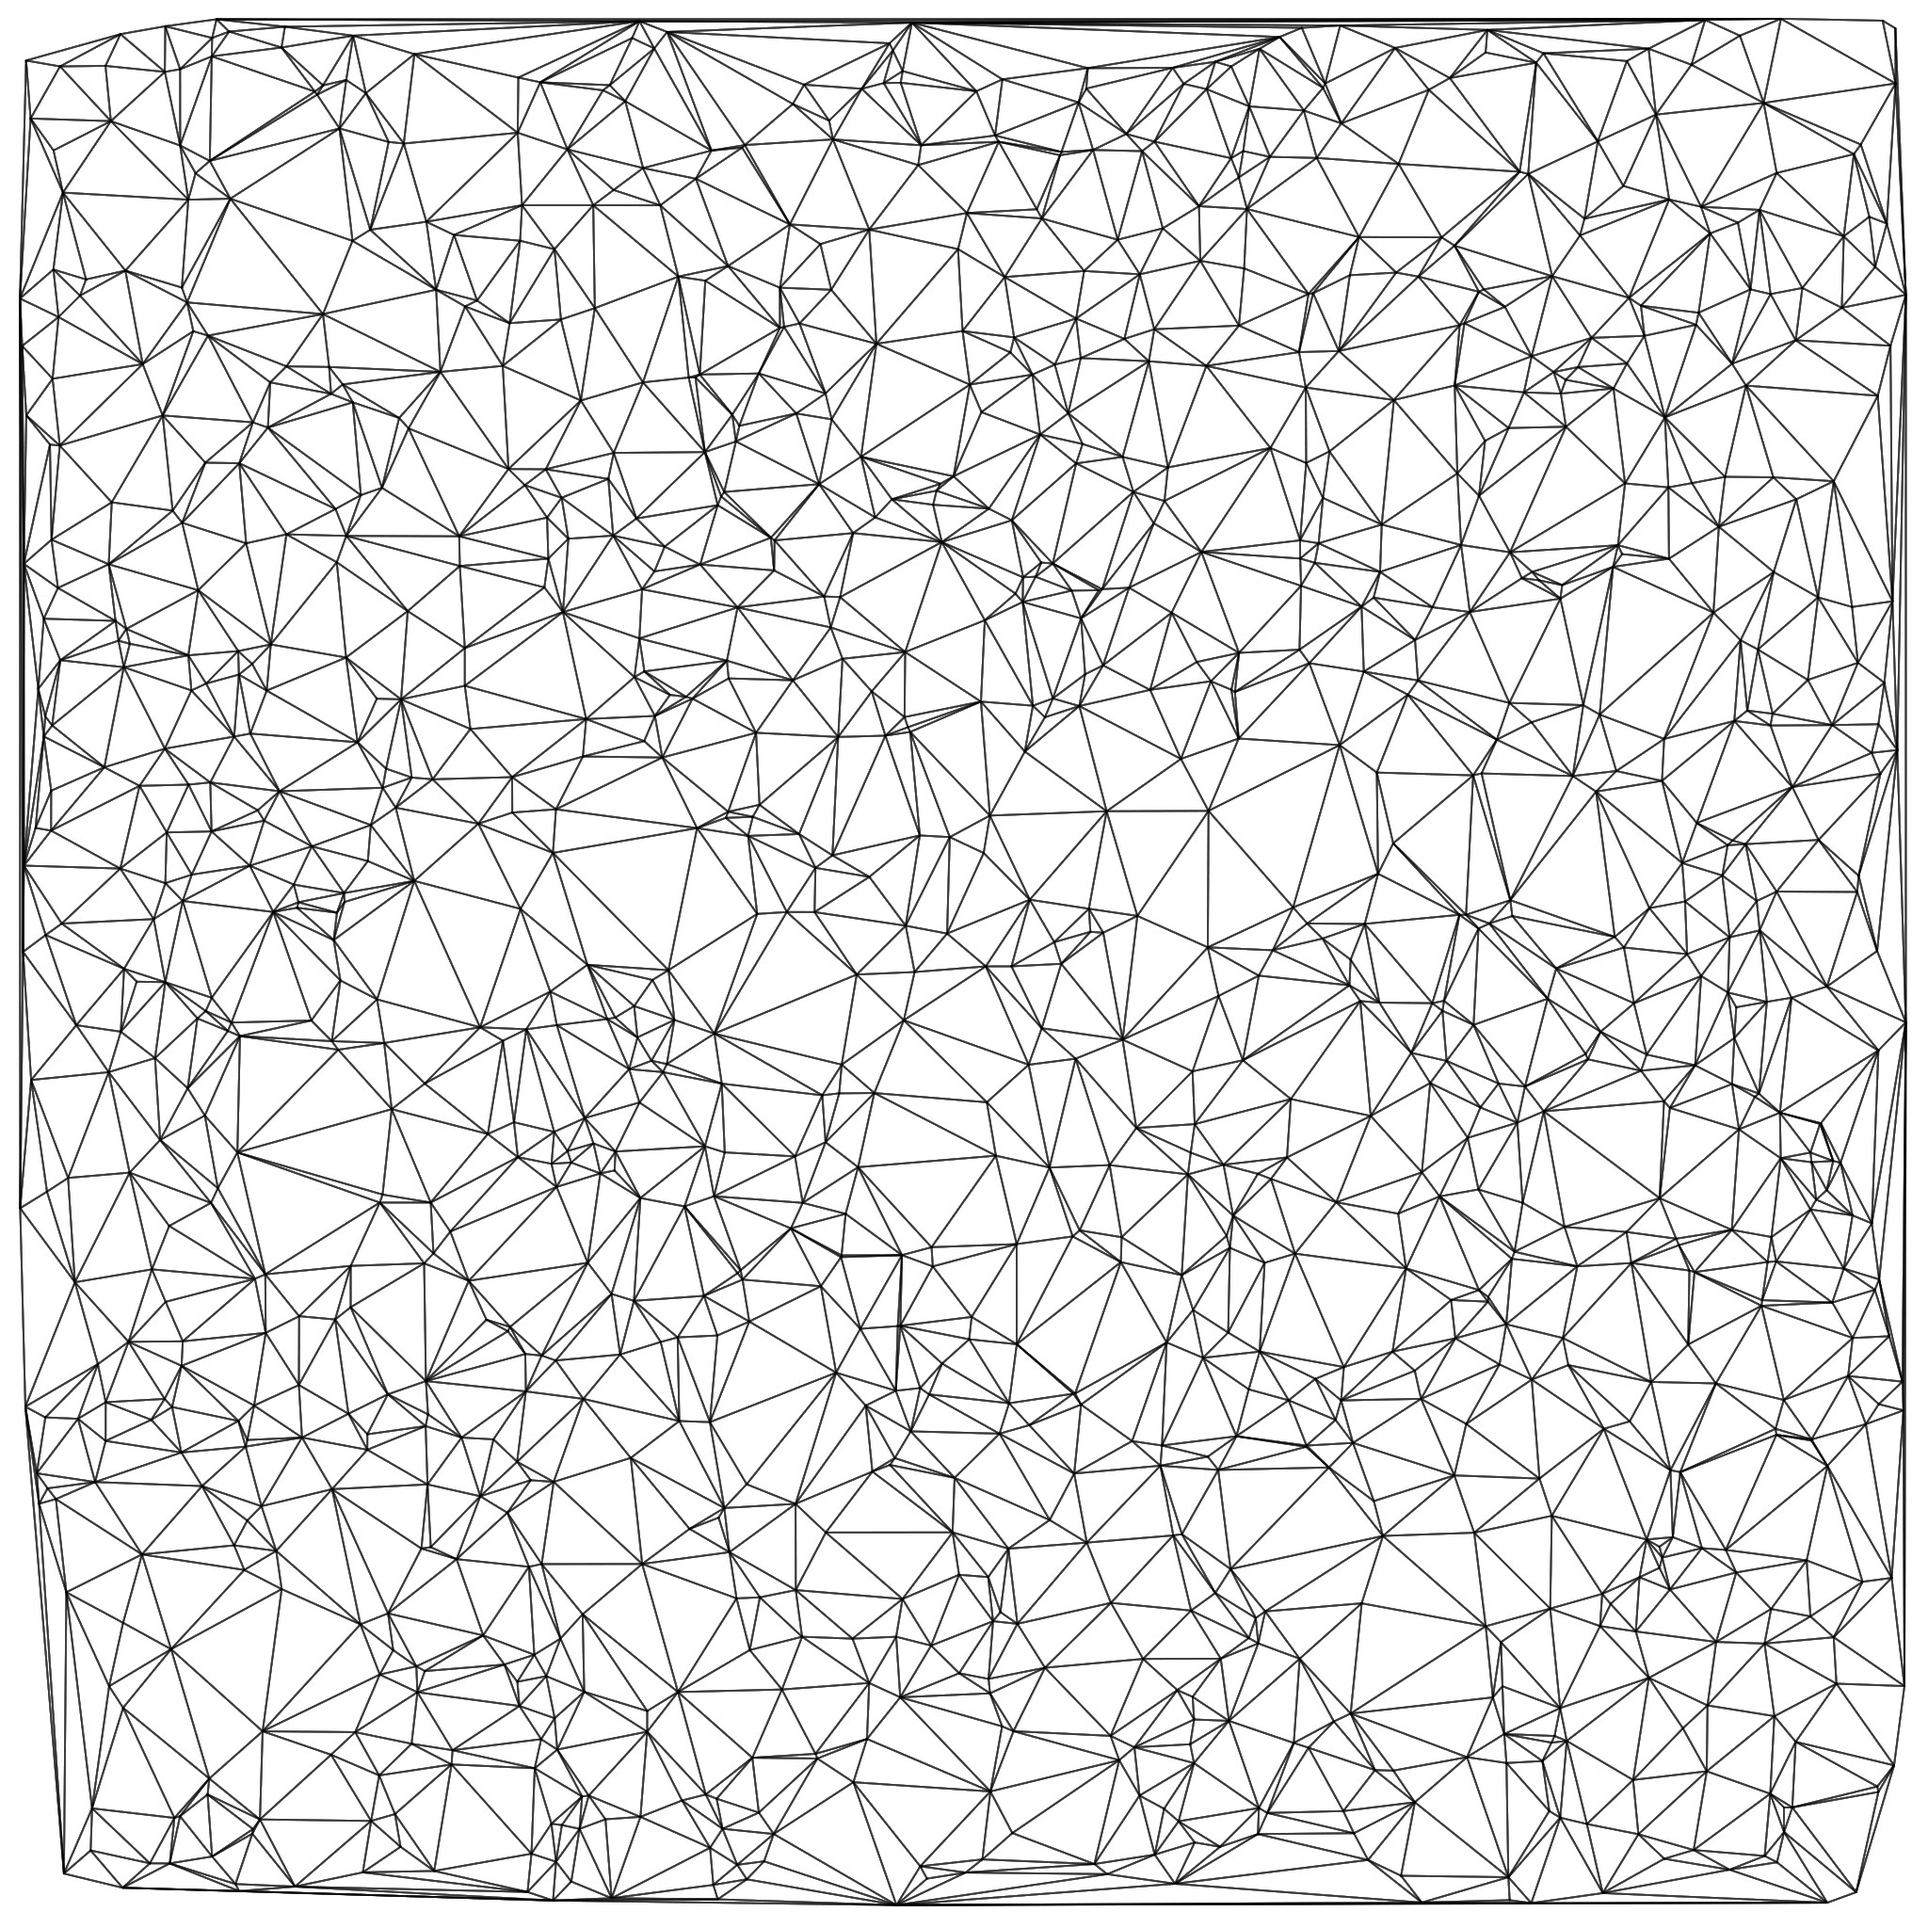
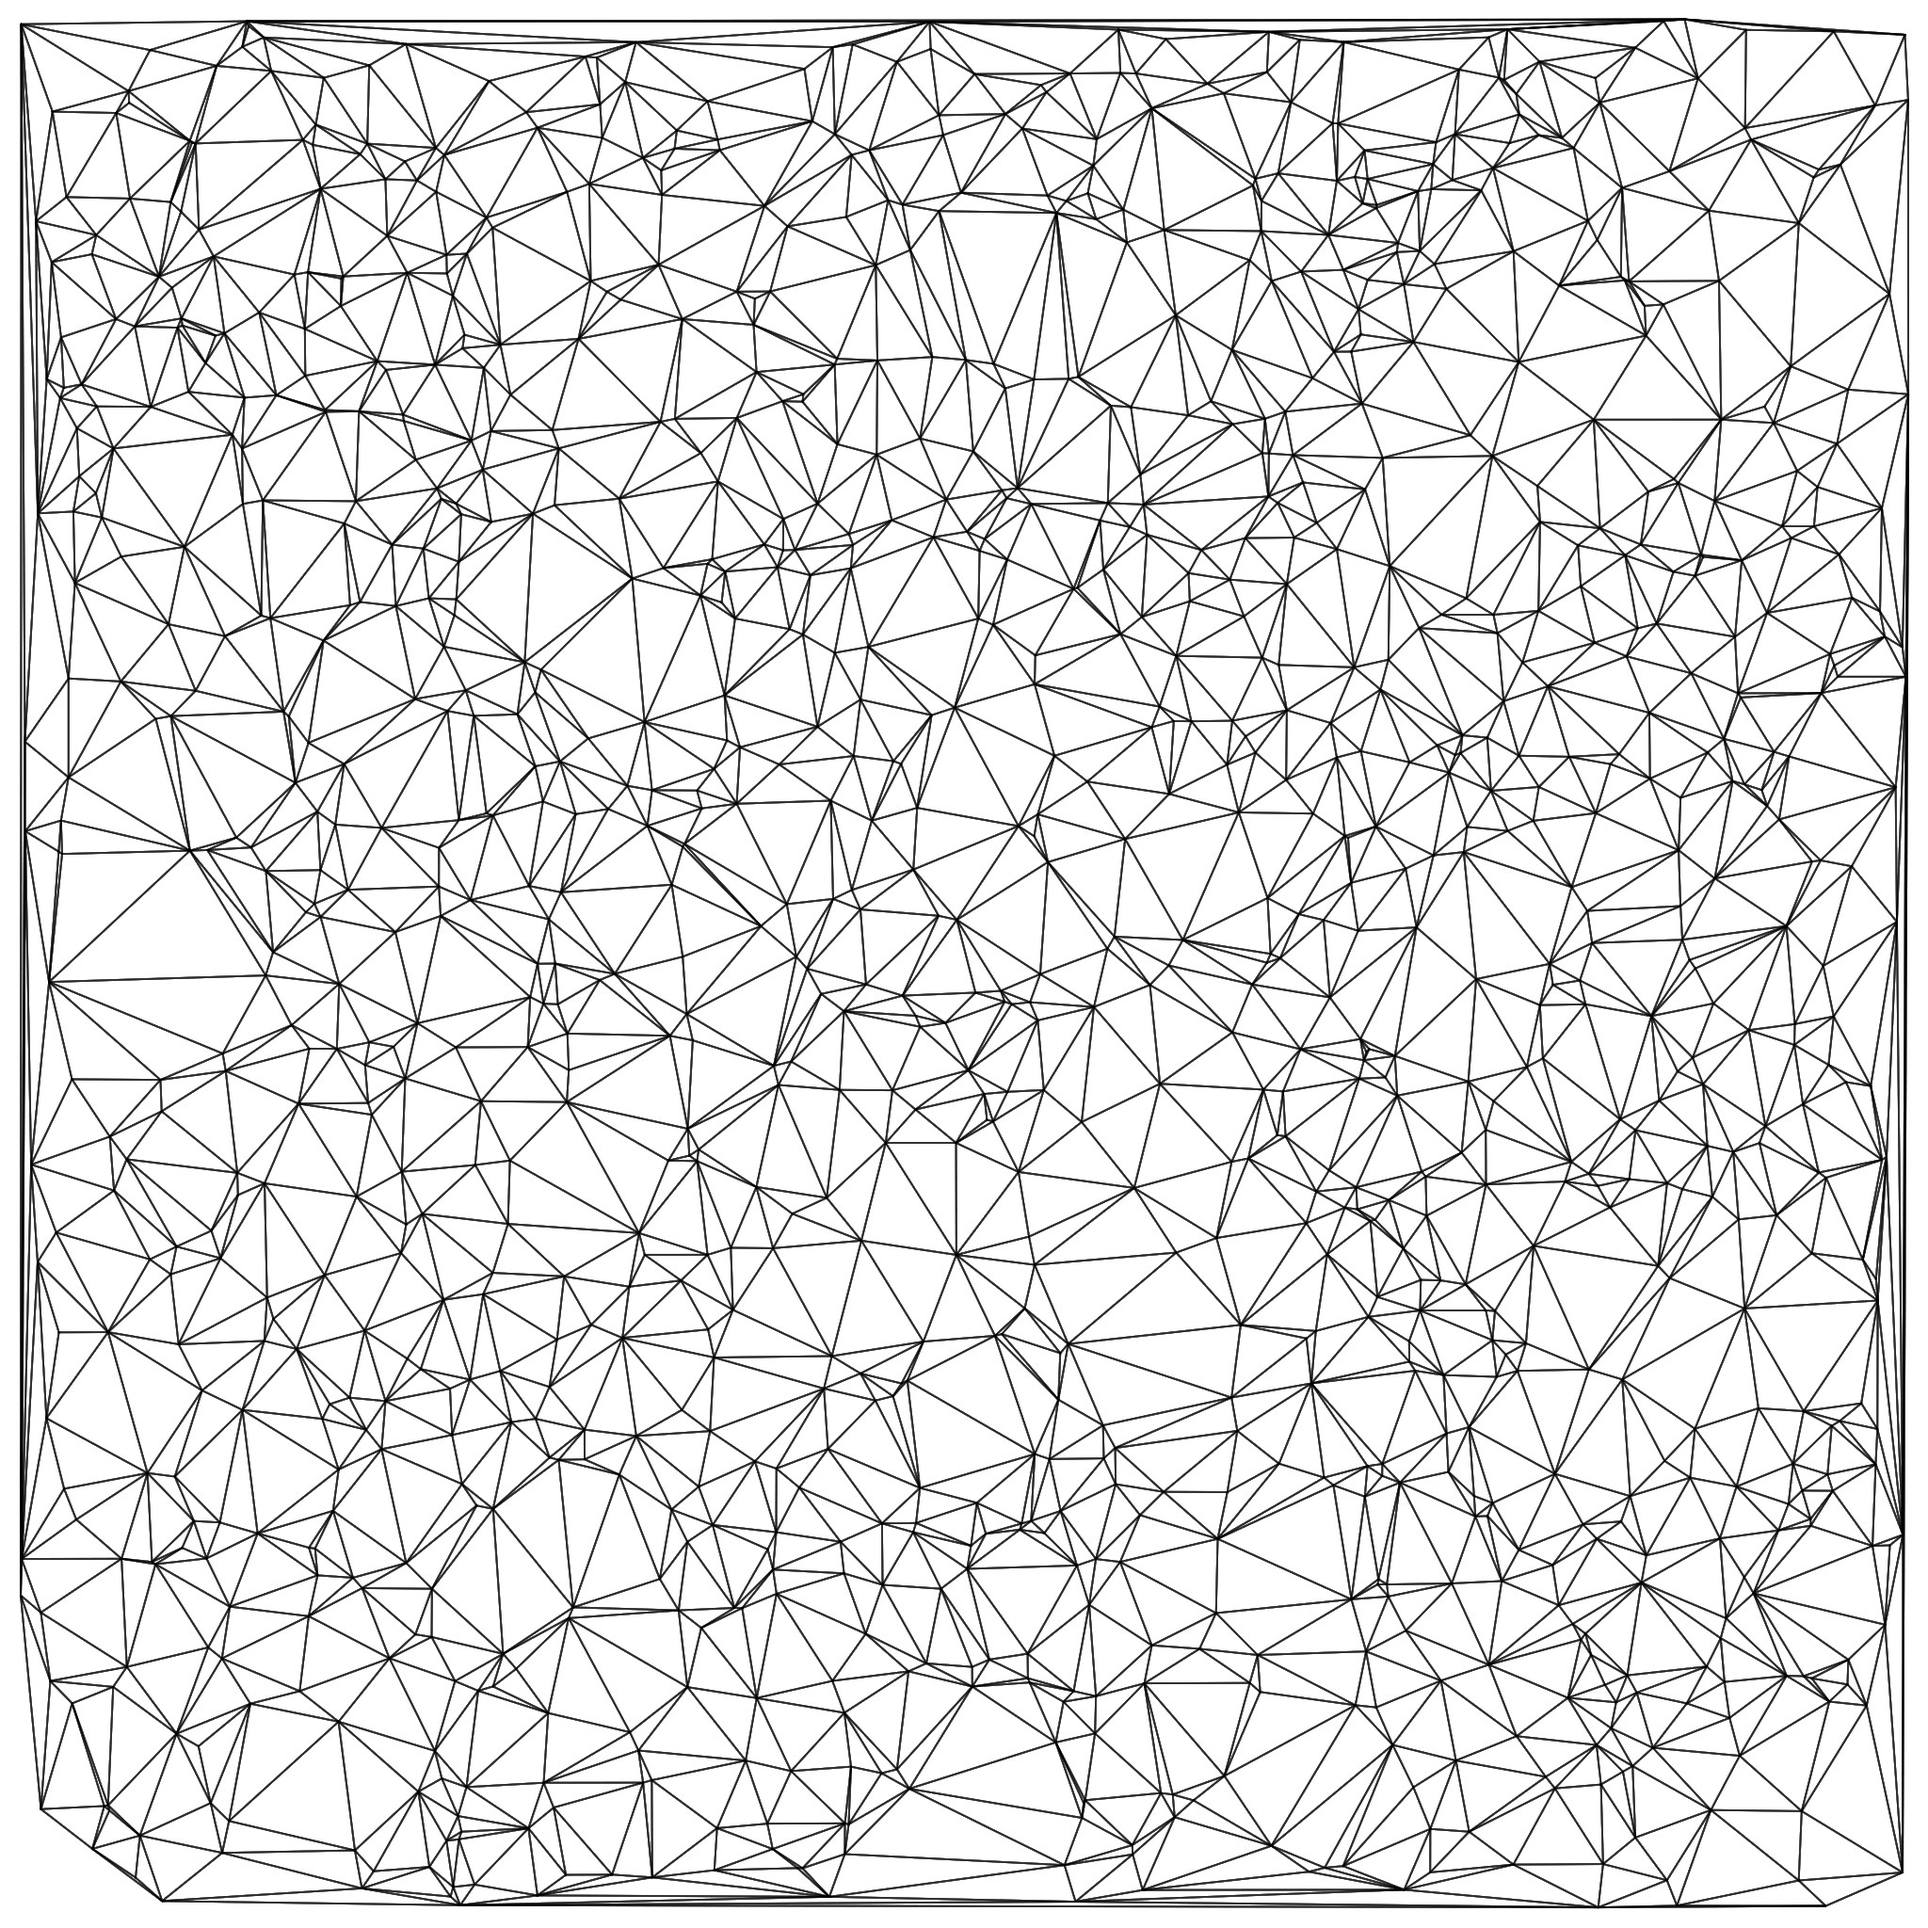
Changed qsort to quickselect

Changed region(s): [[0.0, 0.0, 1.0, 1.0]]

diff --git a/src/delaunay.c b/src/delaunay.c
@@ -43,10 +43,8 @@ static double dot_twovec(const double *restrict v1,
 #ifndef NO_INTRINSICS
 
 gnu_attribute(const)
-/// Crossing two 2D vectors can be likened to a dot product, where one vector 
-/// is reversed (shuffled) and its lower (upper bits!) are negated (the 
-/// blend with out_n). This returns a scalar, the magnitude of the normal 
-/// vector to the plane defined by @p v1 and @p v2
+/// Reverses @p v2, negates the lower 64 bits, then returns the dot of @p v1 
+/// and @p v2
 ///
 static double cross_twovec_xmm(const __m128d v1, const __m128d v2)
 {
@@ -217,7 +215,6 @@ static int collinear_center(const double *restrict rs[static 3])
         return dot_twovec(AB, AC) < 0;
     }
 }
-
 
 
 #define DIM_TOGGLE(dim) (!dim)
@@ -734,6 +731,8 @@ merge_accept_left:
     goto merge_find_candidates;
 }
 
+#if USE_QSORT
+
 gnu_attribute(nonnull, pure, hot)
 static int xcmp(const void *restrict v1, const void *restrict v2)
 {
@@ -750,6 +749,73 @@ static int ycmp(const void *restrict v1, const void *restrict v2)
     return (y1 < y2) - (y1 > y2);
 }
 
+static int (*const cmps[])(const void *, const void *) = {
+    xcmp,
+    ycmp
+};
+
+#else
+
+gnu_attribute(nonnull)
+static void qswap(const double **p1, const double **p2)
+{
+    const double *tmp = *p1;
+    *p1 = *p2;
+    *p2 = tmp;
+}
+
+gnu_attribute(nonnull)
+static double qpivot(const double **base, const double **end, int dim)
+{
+    const double **mid = base + (end - base) / 2;
+    end--;
+    if ((*mid)[dim] < (*base)[dim]) {
+        qswap(base, mid);
+    }
+    if ((*end)[dim] < (*mid)[dim]) {
+        qswap(mid, end);
+        if ((*mid)[dim] < (*base)[dim]) {
+            qswap(base, mid);
+        }
+    }
+    return (*mid)[dim];
+}
+
+gnu_attribute(nonnull)
+static size_t qpart(const double **base, const double **j, int dim)
+{
+    double p = qpivot(base, j, dim);
+    const double **i = base - 1;
+    while (1) {
+        do {
+            i++;
+        } while ((*i)[dim] < p);
+        do {
+            j--;
+        } while ((*j)[dim] > p);
+        if (i >= j) {
+            return i - base;
+        }
+        qswap(i, j);
+    }
+}
+
+gnu_attribute(nonnull)
+static void kpart(size_t N, const double *refs[static N], size_t k, int dim)
+{
+    if (N == 1) {
+        return;
+    }
+    size_t part = qpart(refs, refs + N, dim);
+    if (k < part) {
+        kpart(part, refs, k, dim);
+    } else {
+        kpart(N - part, refs + part, k - part, dim);
+    }
+}
+
+#endif //USE_QSORT
+
 gnu_attribute(nonnull)
 /// Serial version
 ///
@@ -758,10 +824,6 @@ static struct delaunay_triangle *build_2dtree_s(struct delaunay_triangle_pool *p
                                                 const double *refs[static N],
                                                 int dim)
 {
-    static int (*const cmps[])(const void *, const void *) = {
-        xcmp,
-        ycmp
-    };
     if (N <= 3) {
         if (N == 3) {
             return make_triangle(p, refs[0], refs[1], refs[2]);
@@ -770,8 +832,14 @@ static struct delaunay_triangle *build_2dtree_s(struct delaunay_triangle_pool *p
         }
     }
     struct delaunay_triangle *restrict t_left, *restrict t_right;
-    qsort(refs, N, sizeof *refs, cmps[dim]);
     size_t med = N / 2;
+
+    #if USE_QSORT
+    qsort(refs, N, sizeof *refs, cmps[dim]);
+    #else
+    kpart(N, refs, med, dim);
+    #endif //USE_QSORT
+
     t_left = build_2dtree_s(p, med, refs, DIM_TOGGLE(dim));
     t_right = build_2dtree_s(p, (N + 1) / 2, refs + med, DIM_TOGGLE(dim));
     t_left = merge_triangulations(p, t_left, t_right, dim);
@@ -806,10 +874,6 @@ static struct delaunay_triangle *build_2dtree(struct delaunay_triangle_pool *p,
                                               const double *refs[static N],
                                               int dim, unsigned int n_threads)
 {
-    static int (*const cmps[])(const void *, const void *) = {
-        xcmp,
-        ycmp
-    };
     if (n_threads == 1) {
         return build_2dtree_s(p, N, refs, dim);
     }
@@ -821,8 +885,14 @@ static struct delaunay_triangle *build_2dtree(struct delaunay_triangle_pool *p,
         }
     }
     struct delaunay_triangle *restrict t_left, *restrict t_right;
-    qsort(refs, N, sizeof *refs, cmps[dim]);
     size_t med = N / 2;
+    
+    #if USE_QSORT
+    qsort(refs, N, sizeof *refs, cmps[dim]);
+    #else
+    kpart(N, refs, med, dim);
+    #endif //USE_QSORT
+    
 
     struct delaunay_args args;
     args.p = p;

diff --git a/src/geometry.c b/src/geometry.c
@@ -39,10 +39,8 @@ double dot_twovec(const double *restrict v1,
 
 #ifndef NO_INTRINSICS
 gnu_attribute(const)
-/// Crossing two 2D vectors can be likened to a dot product, where one vector 
-/// is reversed (shuffled) and its lower (upper bits!) are negated (the 
-/// blend with out_n). This returns a scalar, the magnitude of the normal 
-/// vector to the plane defined by @p v1 and @p v2
+/// Reverses @p v2, negates the lower 64 bits, then returns the dot of @p v1 
+/// and @p v2
 ///
 static double cross_twovec_xmm(const __m128d v1, const __m128d v2)
 {

diff --git a/src/main.c b/src/main.c
@@ -5,7 +5,7 @@
 #include "include/geometry.h"
 #include "include/delaunay.h"
 
-#define N 1234
+#define N 123456789
 #define RANDOMIZE_MIN -100.0
 #define RANDOMIZE_MAX 100.0
 

diff --git a/README.md b/README.md
@@ -11,7 +11,7 @@ Natively parallel implementation of Dwyer's modification to the classic divide a
 
 The main file just generates some amount of nodes at random, then triangulates them and writes the triangulation and associated Voronoi diagram to the current directory (images are written using [STB's image library](https://github.com/nothings/stb)). All of the code in main.c and delaunay_img.c exists for this purpose, and is not necessary to the triangulation.
 
-Geometric primitives (in geometry.c) are written in both standard C and with x86 intrinsics. Intrinsics are enabled by default; build with `-DNO_INTRINSICS` to disable them. All of the geometric functions necessary to the triangulation code have been moved into delaunay.c to make it standalone.
+Geometric functions (in geometry.c) are written in both standard C and with x86 intrinsics. Intrinsics are enabled by default; build with `-DNO_INTRINSICS` to disable them. All of the geometric functions necessary to the triangulation code have been moved into delaunay.c to make it standalone.
 
 ## Sources
 
